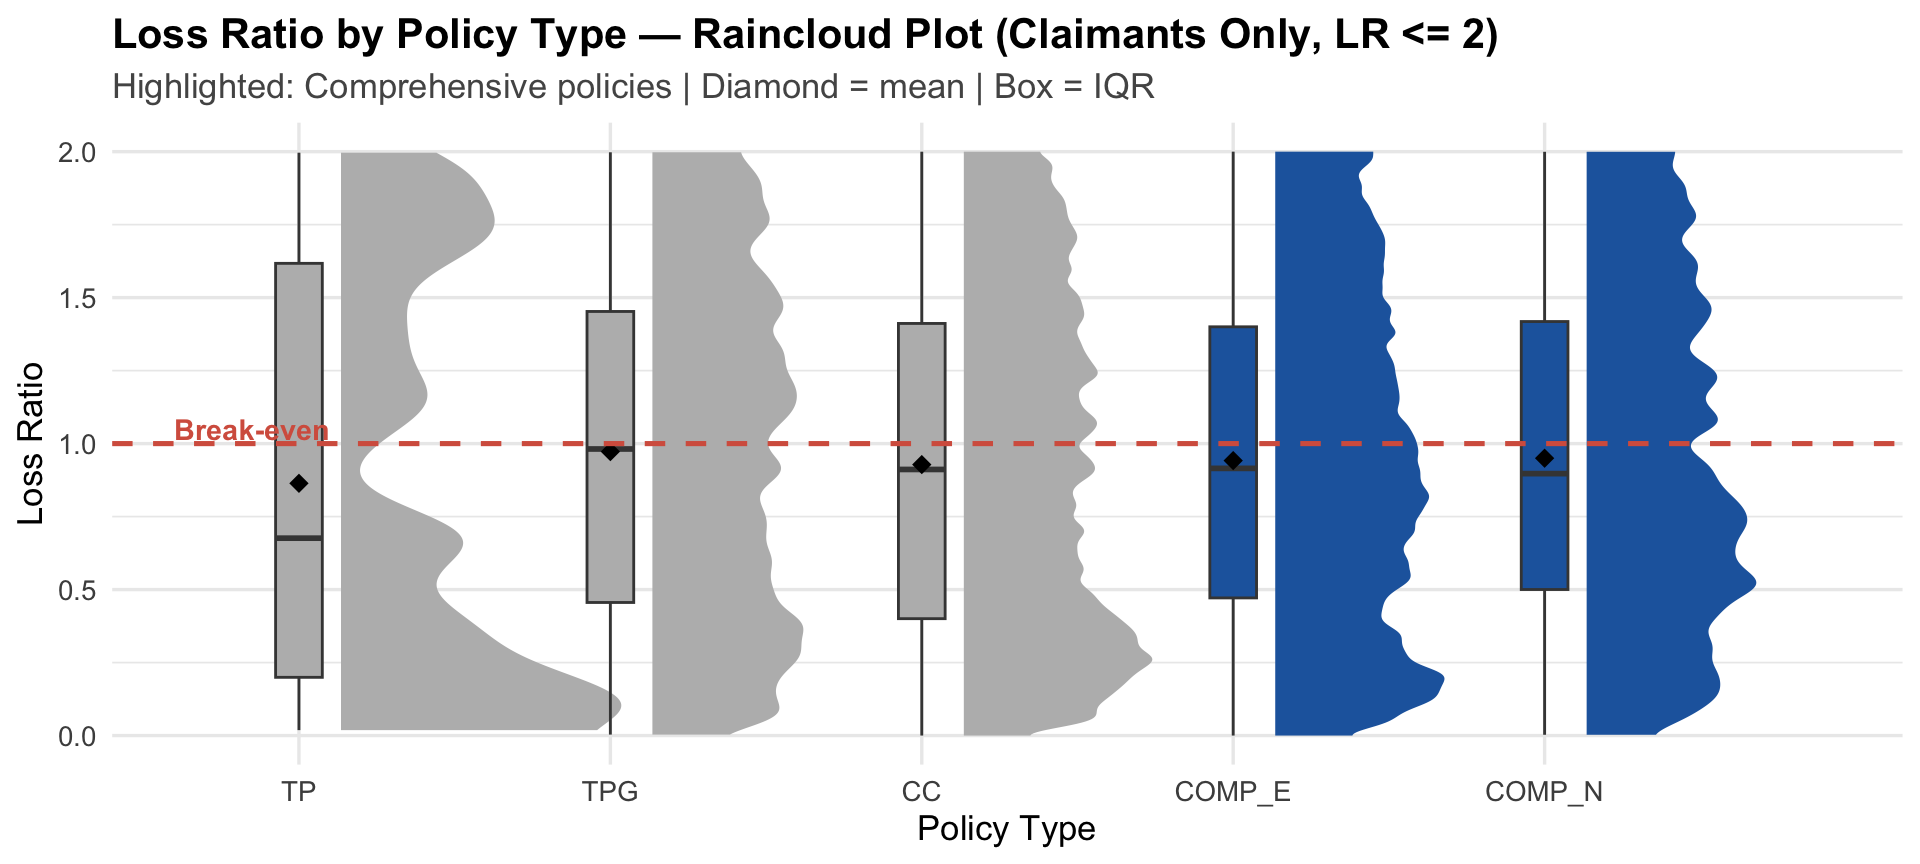
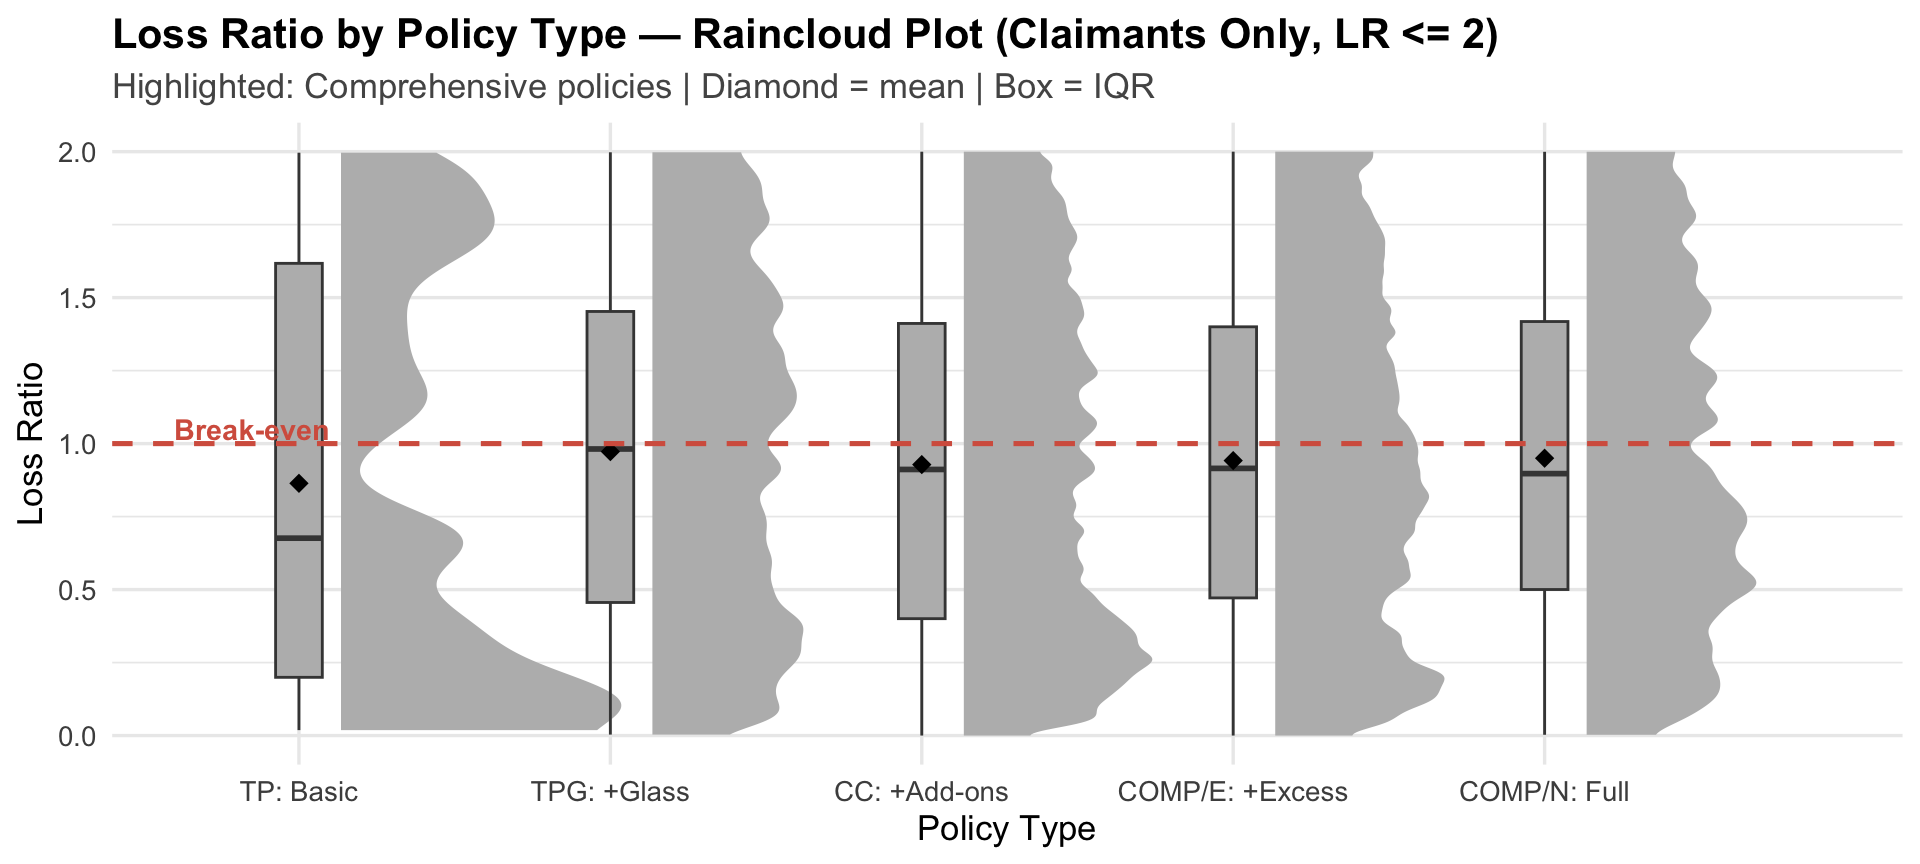
Fix policy type labels, Insight 8 y-axis, Insight 9 lollipop, add reference guide slide

diff --git a/_site/Take-home_Ex/Take-home_Ex01/Take-home_Ex01_slides.html b/_site/Take-home_Ex/Take-home_Ex01/Take-home_Ex01_slides.html
@@ -257,6 +257,76 @@ Loss Ratio &gt; 1 = <strong>Unprofitable</strong></p>
           display:block!important;
       }</style></aside>
 </section>
+<section id="policy-type-reference-guide" class="slide level2">
+<h2>Policy Type Reference Guide</h2>
+<table class="caption-top">
+<colgroup>
+<col style="width: 33%">
+<col style="width: 33%">
+<col style="width: 33%">
+</colgroup>
+<thead>
+<tr class="header">
+<th>Code</th>
+<th>Full Name</th>
+<th>Coverage</th>
+</tr>
+</thead>
+<tbody>
+<tr class="odd">
+<td><strong>TP</strong></td>
+<td>Third-Party Only</td>
+<td>Liability to others only</td>
+</tr>
+<tr class="even">
+<td><strong>TPG</strong></td>
+<td>Third-Party + Glass</td>
+<td>Liability + windscreen</td>
+</tr>
+<tr class="odd">
+<td><strong>CC</strong></td>
+<td>Third-Party + Add-ons</td>
+<td>Liability + theft, fire, glass, legal</td>
+</tr>
+<tr class="even">
+<td><strong>COMP/E</strong></td>
+<td>Comprehensive with Excess</td>
+<td>Full coverage, policyholder pays excess</td>
+</tr>
+<tr class="odd">
+<td><strong>COMP/N</strong></td>
+<td>Full Comprehensive</td>
+<td>Full coverage, no excess</td>
+</tr>
+</tbody>
+</table>
+<div class="callout callout-note callout-titled callout-style-default">
+<div class="callout-body">
+<div class="callout-title">
+<div class="callout-icon-container">
+<i class="callout-icon"></i>
+</div>
+<p><strong>Note</strong></p>
+</div>
+<div class="callout-content">
+<p><strong>CC, COMP/E and COMP/N</strong> are the three broadest coverage types and together account for <strong>88.2%</strong> of the portfolio. These are the focus of our profitability analysis.</p>
+</div>
+</div>
+</div>
+<aside class="notes">
+<p>Before we look at charts with policy type codes, here is a quick reference guide. TP and TPG are basic policies covering only third-party liability. CC adds several extras like theft, fire and glass on top of liability. COMP with excess means full comprehensive coverage but the policyholder pays the first portion of any claim. Full comprehensive has no such excess. The three broadest types together account for 88.2 percent of all policies.</p>
+<style type="text/css">
+        span.MJX_Assistive_MathML {
+          position:absolute!important;
+          clip: rect(1px, 1px, 1px, 1px);
+          padding: 1px 0 0 0!important;
+          border: 0!important;
+          height: 1px!important;
+          width: 1px!important;
+          overflow: hidden!important;
+          display:block!important;
+      }</style></aside>
+</section>
 <section id="data-quality" class="slide level2">
 <h2>Data Quality</h2>
 
@@ -288,12 +358,12 @@ Loss Ratio &gt; 1 = <strong>Unprofitable</strong></p>
 <h2>Insight 1: CC Policies Dominate at 57.8%</h2>
 
 <img data-src="Take-home_Ex01_slides_files/figure-revealjs/unnamed-chunk-2-1.png" class="quarto-figure quarto-figure-center r-stretch" width="960"><ul>
-<li><strong>CC</strong> (third-party + add-ons) dominates at <strong>57.8%</strong> of all policies</li>
-<li><strong>COMP_E</strong> (comprehensive with excess) is second at <strong>25.8%</strong></li>
-<li>Basic <strong>TP</strong> (third-party only) is rare at just <strong>1.6%</strong> — most customers prefer broader coverage</li>
+<li><strong>CC: +Add-ons</strong> (third-party + theft, fire, glass) dominates at <strong>57.8%</strong> of all policies</li>
+<li><strong>COMP/E: +Excess</strong> (comprehensive with excess) is second at <strong>25.8%</strong></li>
+<li><strong>TP: Basic</strong> (third-party only) is rare at just <strong>1.6%</strong> — most customers prefer broader coverage</li>
 </ul>
 <aside class="notes">
-<p>CC policies dominate at 57.8 percent. These combine third-party liability with add-ons like theft and glass cover. COMP_E at 25.8 percent is full comprehensive with an excess. What stands out is how rare basic TP policies are at just 1.6 percent. This tells us the insurer is largely serving customers who want broader protection.</p>
+<p>CC policies dominate at 57.8 percent. These combine third-party liability with add-ons like theft and glass cover. COMP/E at 25.8 percent is full comprehensive with an excess. What stands out is how rare basic TP policies are at just 1.6 percent. This tells us the insurer is largely serving customers who want broader protection.</p>
 <style type="text/css">
         span.MJX_Assistive_MathML {
           position:absolute!important;
@@ -403,12 +473,12 @@ Loss Ratio &gt; 1 = <strong>Unprofitable</strong></p>
 <h2>Insight 6: Comprehensive Policies Have Higher Loss Ratios</h2>
 
 <img data-src="Take-home_Ex01_slides_files/figure-revealjs/unnamed-chunk-7-1.png" class="quarto-figure quarto-figure-center r-stretch" width="960"><ul>
-<li><strong>COMP_N</strong> mean LR = <strong>0.950</strong>, median = <strong>0.897</strong> — highest among all policy types</li>
-<li><strong>COMP_E</strong> mean LR = <strong>0.942</strong>, median = <strong>0.915</strong> — second highest</li>
-<li><strong>TP</strong> mean LR = <strong>0.864</strong>, median = <strong>0.676</strong> — basic coverage, lower and narrower distribution</li>
+<li><strong>COMP/N: Full</strong> mean LR = <strong>0.950</strong>, median = <strong>0.897</strong> — highest among all policy types</li>
+<li><strong>COMP/E: +Excess</strong> mean LR = <strong>0.942</strong>, median = <strong>0.915</strong> — second highest</li>
+<li><strong>TP: Basic</strong> mean LR = <strong>0.864</strong>, median = <strong>0.676</strong> — narrowest distribution, lowest loss ratio</li>
 </ul>
 <aside class="notes">
-<p>This raincloud plot from Chapter 9 combines a half-density curve, boxplot, and mean diamond marker in one chart. The blue half-densities for COMP_E and COMP_N are visibly wider and taller than the grey ones. The mean diamond sits above the median box line for all types, showing the right-skew of insurance losses. Comprehensive policies have both higher medians and wider spreads.</p>
+<p>This raincloud plot from Chapter 9 combines a half-density curve, boxplot, and mean diamond marker in one chart. The blue half-densities for COMP/E and COMP/N are visibly wider and taller than the grey ones. The mean diamond sits above the median box line for all types, showing the right-skew of insurance losses. Comprehensive policies have both higher medians and wider spreads.</p>
 <style type="text/css">
         span.MJX_Assistive_MathML {
           position:absolute!important;
@@ -447,8 +517,8 @@ Loss Ratio &gt; 1 = <strong>Unprofitable</strong></p>
 <h2>Insight 8: Comprehensive Policies Cost More Per Claim</h2>
 
 <img data-src="Take-home_Ex01_slides_files/figure-revealjs/unnamed-chunk-9-1.png" class="quarto-figure quarto-figure-center r-stretch" width="960"><ul>
-<li><strong>COMP_E</strong> mean severity = <strong>€753</strong> per claim; median = <strong>€547</strong> — highest among all types</li>
-<li><strong>CC</strong> mean = <strong>€651</strong>, median = <strong>€437</strong> — moderate severity</li>
+<li><strong>COMP/E: +Excess</strong> mean severity = <strong>€753</strong> per claim; median = <strong>€547</strong> — highest among all types</li>
+<li><strong>CC: +Add-ons</strong> mean = <strong>€651</strong>, median = <strong>€437</strong> — moderate severity</li>
 <li>Wide gap between mean and median across ALL types confirms heavily right-skewed distributions</li>
 </ul>
 <aside class="notes">
@@ -514,16 +584,16 @@ Loss Ratio &gt; 1 = <strong>Unprofitable</strong></p>
           display:block!important;
       }</style></aside>
 </section>
-<section id="insight-11-comp_n-and-comp_e-crossed-break-even-in-2024" class="slide level2">
-<h2>Insight 11: COMP_N and COMP_E Crossed Break-Even in 2024</h2>
+<section id="insight-11-compn-and-compe-crossed-break-even-in-2024" class="slide level2">
+<h2>Insight 11: COMP/N and COMP/E Crossed Break-Even in 2024</h2>
 
 <img data-src="Take-home_Ex01_slides_files/figure-revealjs/unnamed-chunk-12-1.png" class="quarto-figure quarto-figure-center r-stretch" width="960"><ul>
-<li><strong>COMP_N</strong>: LR rose from <strong>0.706 (2022)</strong> → <strong>0.944 (2023)</strong> → <strong>1.171 (2024)</strong> — crossed break-even</li>
-<li><strong>COMP_E</strong>: LR rose from <strong>0.641 (2022)</strong> → <strong>0.783 (2023)</strong> → <strong>1.106 (2024)</strong> — also crossed</li>
+<li><strong>COMP/N: Full</strong>: LR rose from <strong>0.706 (2022)</strong> → <strong>0.944 (2023)</strong> → <strong>1.171 (2024)</strong> — crossed break-even</li>
+<li><strong>COMP/E: +Excess</strong>: LR rose from <strong>0.641 (2022)</strong> → <strong>0.783 (2023)</strong> → <strong>1.106 (2024)</strong> — also crossed</li>
 <li><strong>CC, TP, TPG</strong> remain below break-even throughout — basic coverage types stay profitable</li>
 </ul>
 <aside class="notes">
-<p>This is the most alarming finding in the analysis. COMP_N went from 0.706 in 2022 all the way to 1.171 in 2024. COMP_E similarly crossed from 0.641 to 1.106. Both comprehensive policy types are now paying out more in claims than they collect in premiums. This could be claims inflation from rising repair or medical costs. Basic coverage types CC, TP and TPG remain comfortably below break-even throughout.</p>
+<p>This is the most alarming finding in the analysis. COMP/N went from 0.706 in 2022 all the way to 1.171 in 2024. COMP/E similarly crossed from 0.641 to 1.106. Both comprehensive policy types are now paying out more in claims than they collect in premiums. This could be claims inflation from rising repair or medical costs. Basic coverage types CC, TP and TPG remain comfortably below break-even throughout.</p>
 <style type="text/css">
         span.MJX_Assistive_MathML {
           position:absolute!important;
@@ -542,8 +612,8 @@ Loss Ratio &gt; 1 = <strong>Unprofitable</strong></p>
 <div class="column" style="width:50%;">
 <p><strong>Profitability</strong></p>
 <ul>
-<li>🔵 <strong>COMP_N LR: 0.71 → 1.17</strong> (2022-2024)</li>
-<li>🔵 <strong>COMP_E LR: 0.64 → 1.11</strong> (2022-2024)</li>
+<li>🔵 <strong>COMP/N LR: 0.71 → 1.17</strong> (2022-2024)</li>
+<li>🔵 <strong>COMP/E LR: 0.64 → 1.11</strong> (2022-2024)</li>
 <li>⬜ Bad-score policyholders: IQR 0.31-1.05</li>
 <li>⬜ <strong>88.1%</strong> of policies have zero claims</li>
 </ul>
@@ -565,12 +635,12 @@ Loss Ratio &gt; 1 = <strong>Unprofitable</strong></p>
 <p><strong>Important</strong></p>
 </div>
 <div class="callout-content">
-<p><strong>Core finding:</strong> 88.1% of policies have zero claims. The portfolio’s challenge is that COMP_N and COMP_E have now crossed break-even — the insurer is losing money on its largest coverage segments.</p>
+<p><strong>Core finding:</strong> 88.1% of policies have zero claims. The portfolio’s challenge is that COMP/N and COMP/E (full comprehensive policies) have now crossed break-even — the insurer is losing money on these segments.</p>
 </div>
 </div>
 </div>
 <aside class="notes">
-<p>To summarise. The biggest story is the trend: COMP_N rose from 0.71 to 1.17 and COMP_E from 0.64 to 1.11 over three years. Both are now loss-making. On the volatility side, young drivers at 0.716 and inland urban areas at 0.371 are the highest-frequency segments. Young drivers file claims 2.5 times more than the 56-65 group. The overarching finding is that 88 percent of policies are fine. The challenge is managing the small but growing share of loss-making comprehensive policies.</p>
+<p>To summarise. The biggest story is the trend: COMP/N rose from 0.71 to 1.17 and COMP/E from 0.64 to 1.11 over three years. Both are now loss-making. On the volatility side, young drivers at 0.716 and inland urban areas at 0.371 are the highest-frequency segments. Young drivers file claims 2.5 times more than the 56-65 group. The overarching finding is that 88 percent of policies are fine. The challenge is managing the small but growing share of loss-making comprehensive policies.</p>
 <style type="text/css">
         span.MJX_Assistive_MathML {
           position:absolute!important;
